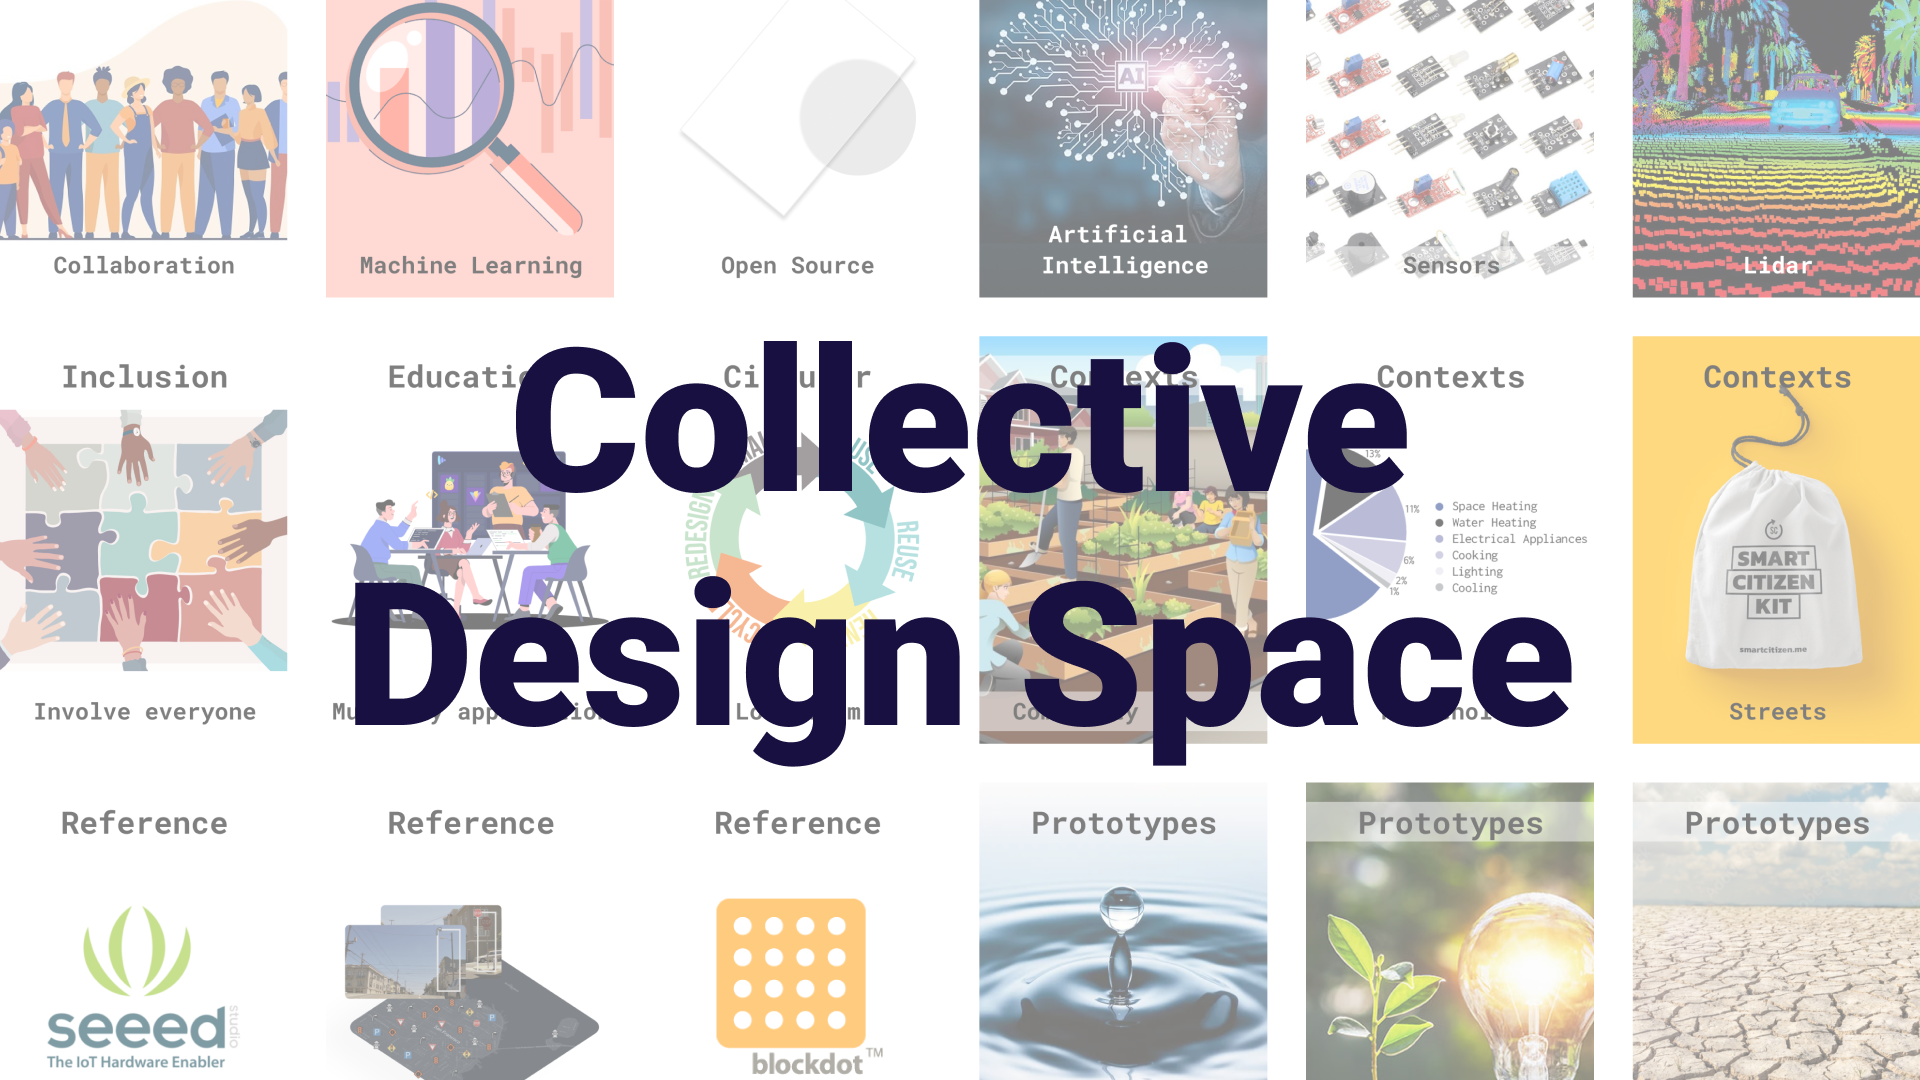
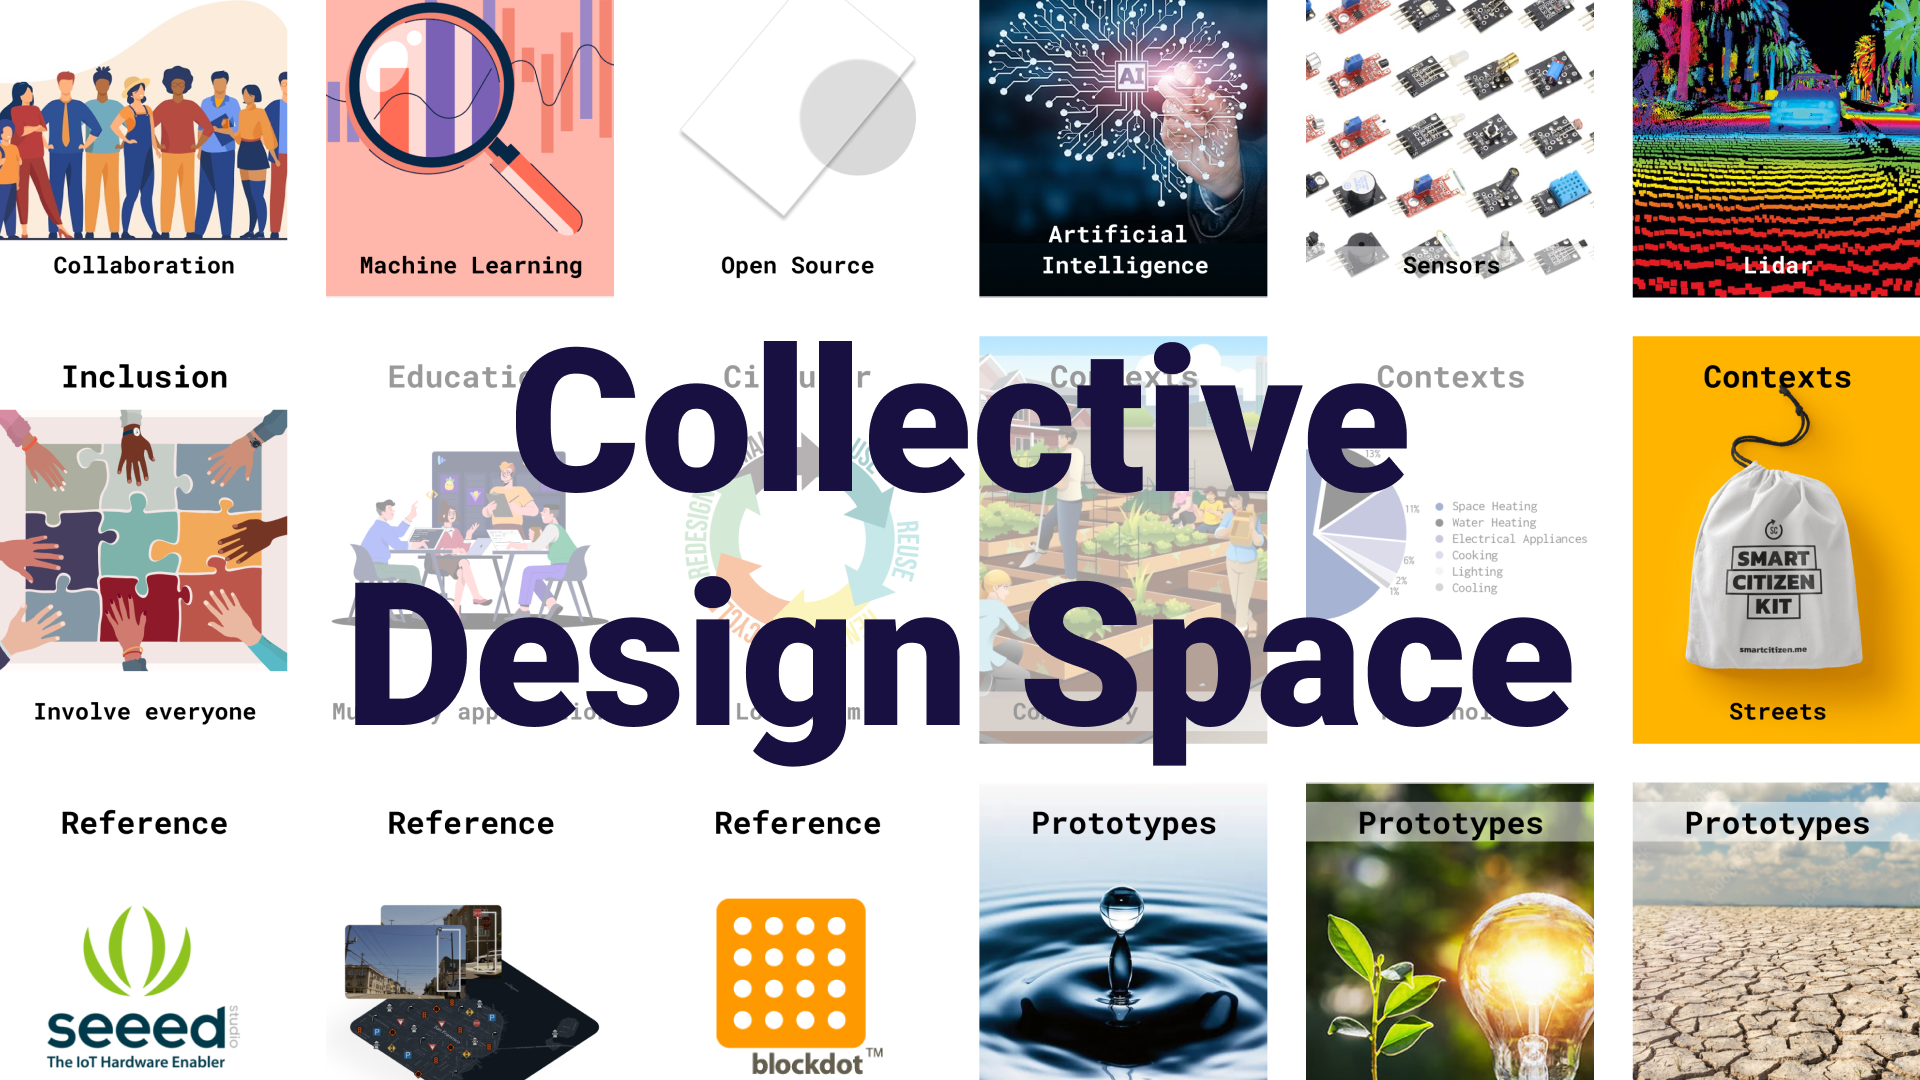
css test

diff --git a/docs/index.md b/docs/index.md
@@ -1,5 +1,12 @@
 # Welcome to my MDEF Documentation
 
+<style>
+.tile{box-shadow: 5px 5px 0px 0px #181040; display: flex; flex-direction: column; align-items: flex-start; width: 48%; height: 100%; object-fit: cover; background-color: #CABFFF;"}
+.tile:hover{
+    box-shadow: 5px 5px 0px 10px #181040; 
+}
+</style>
+
 <div style="display:flex; width: 100%; align-items: flex-start; align-content: flex-start; gap: 10px; flex-wrap:wrap;">
     <a style="box-shadow: 5px 5px 0px 0px #181040; display: flex; flex-direction: row; align-items: flex-start; width: 100%; height: 100%; object-fit: cover; background-color: #CABFFF" href="https://marius-schairer.github.io/MDEF_Documentation/about/me/">
         <div style="display:flex; align-content: center; justify-content:center; width: 50%">
